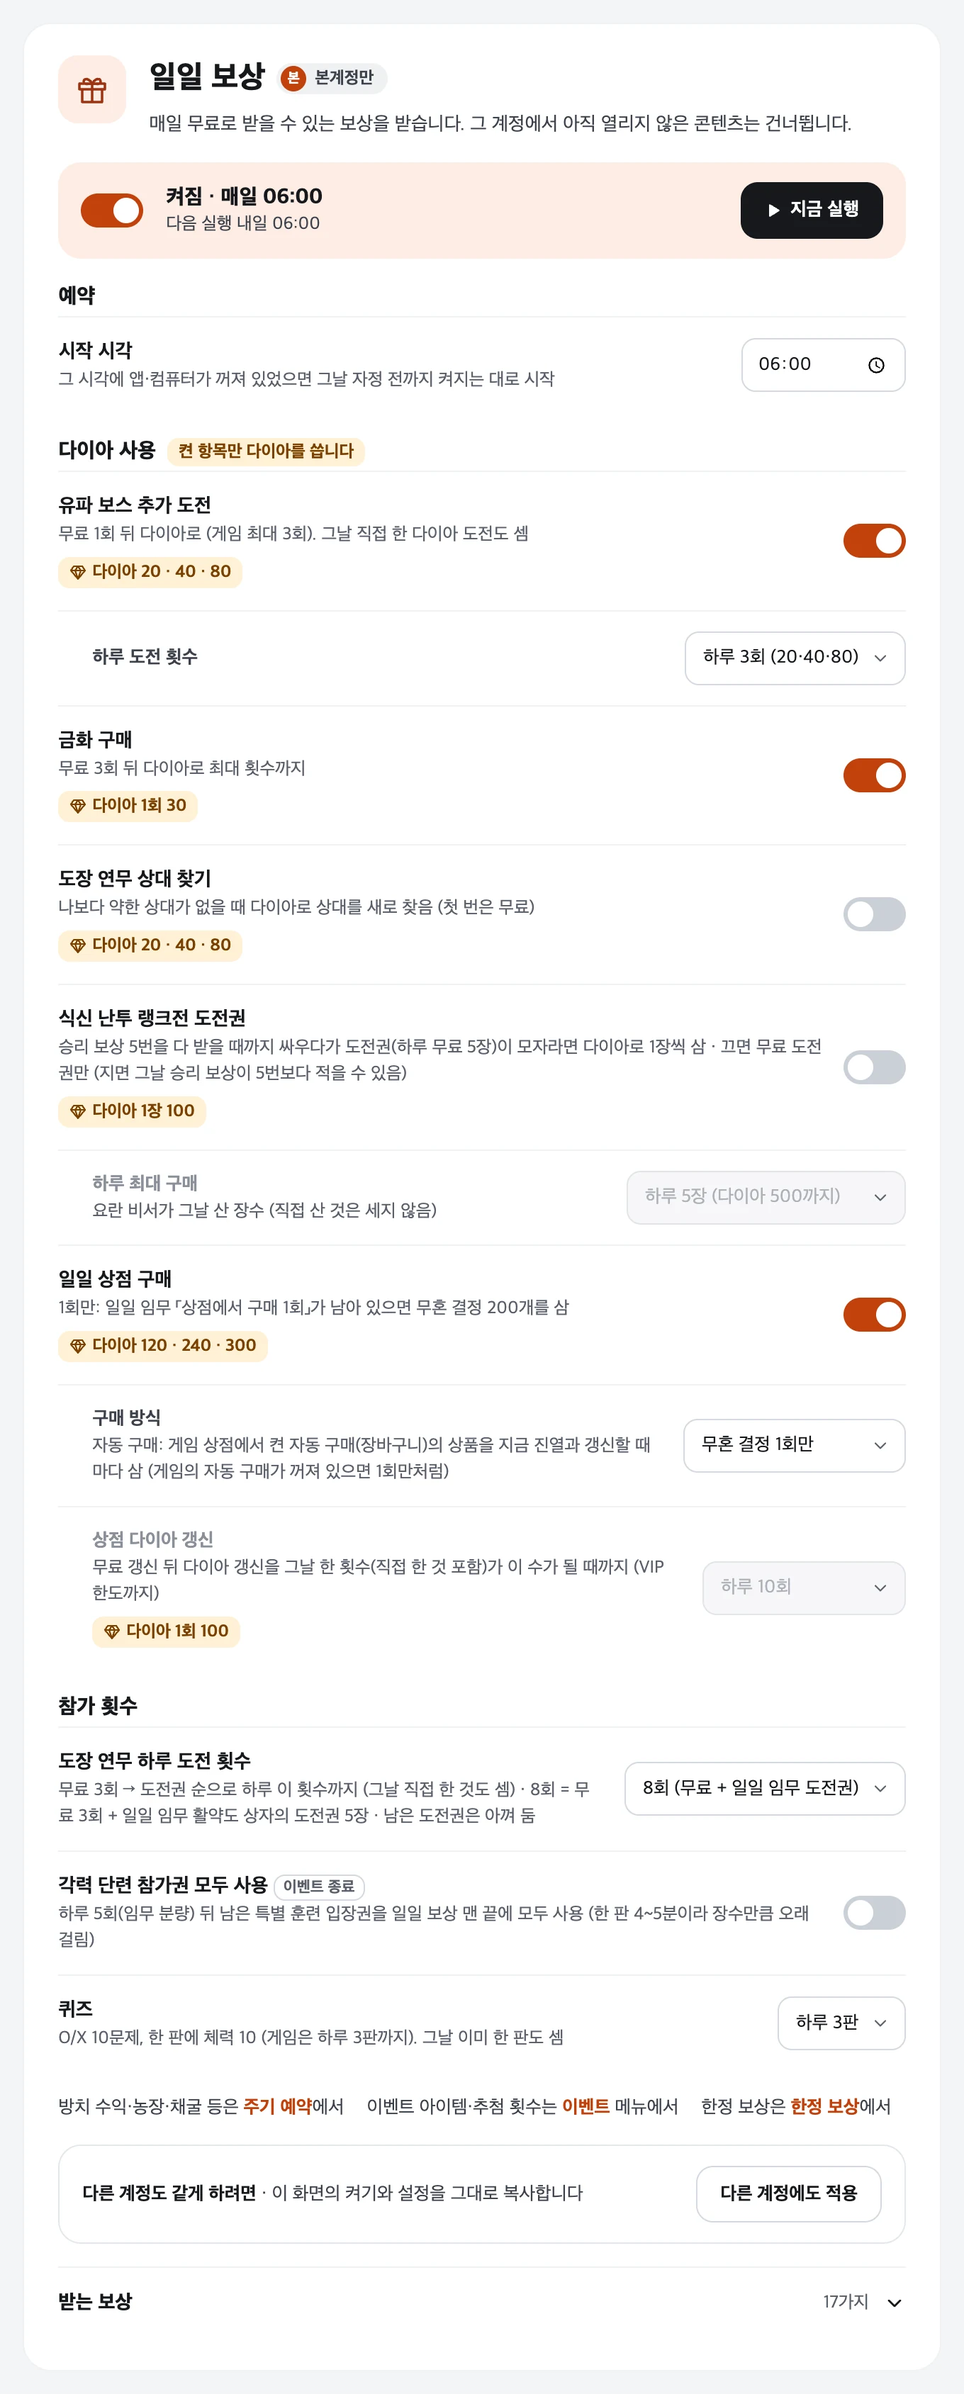
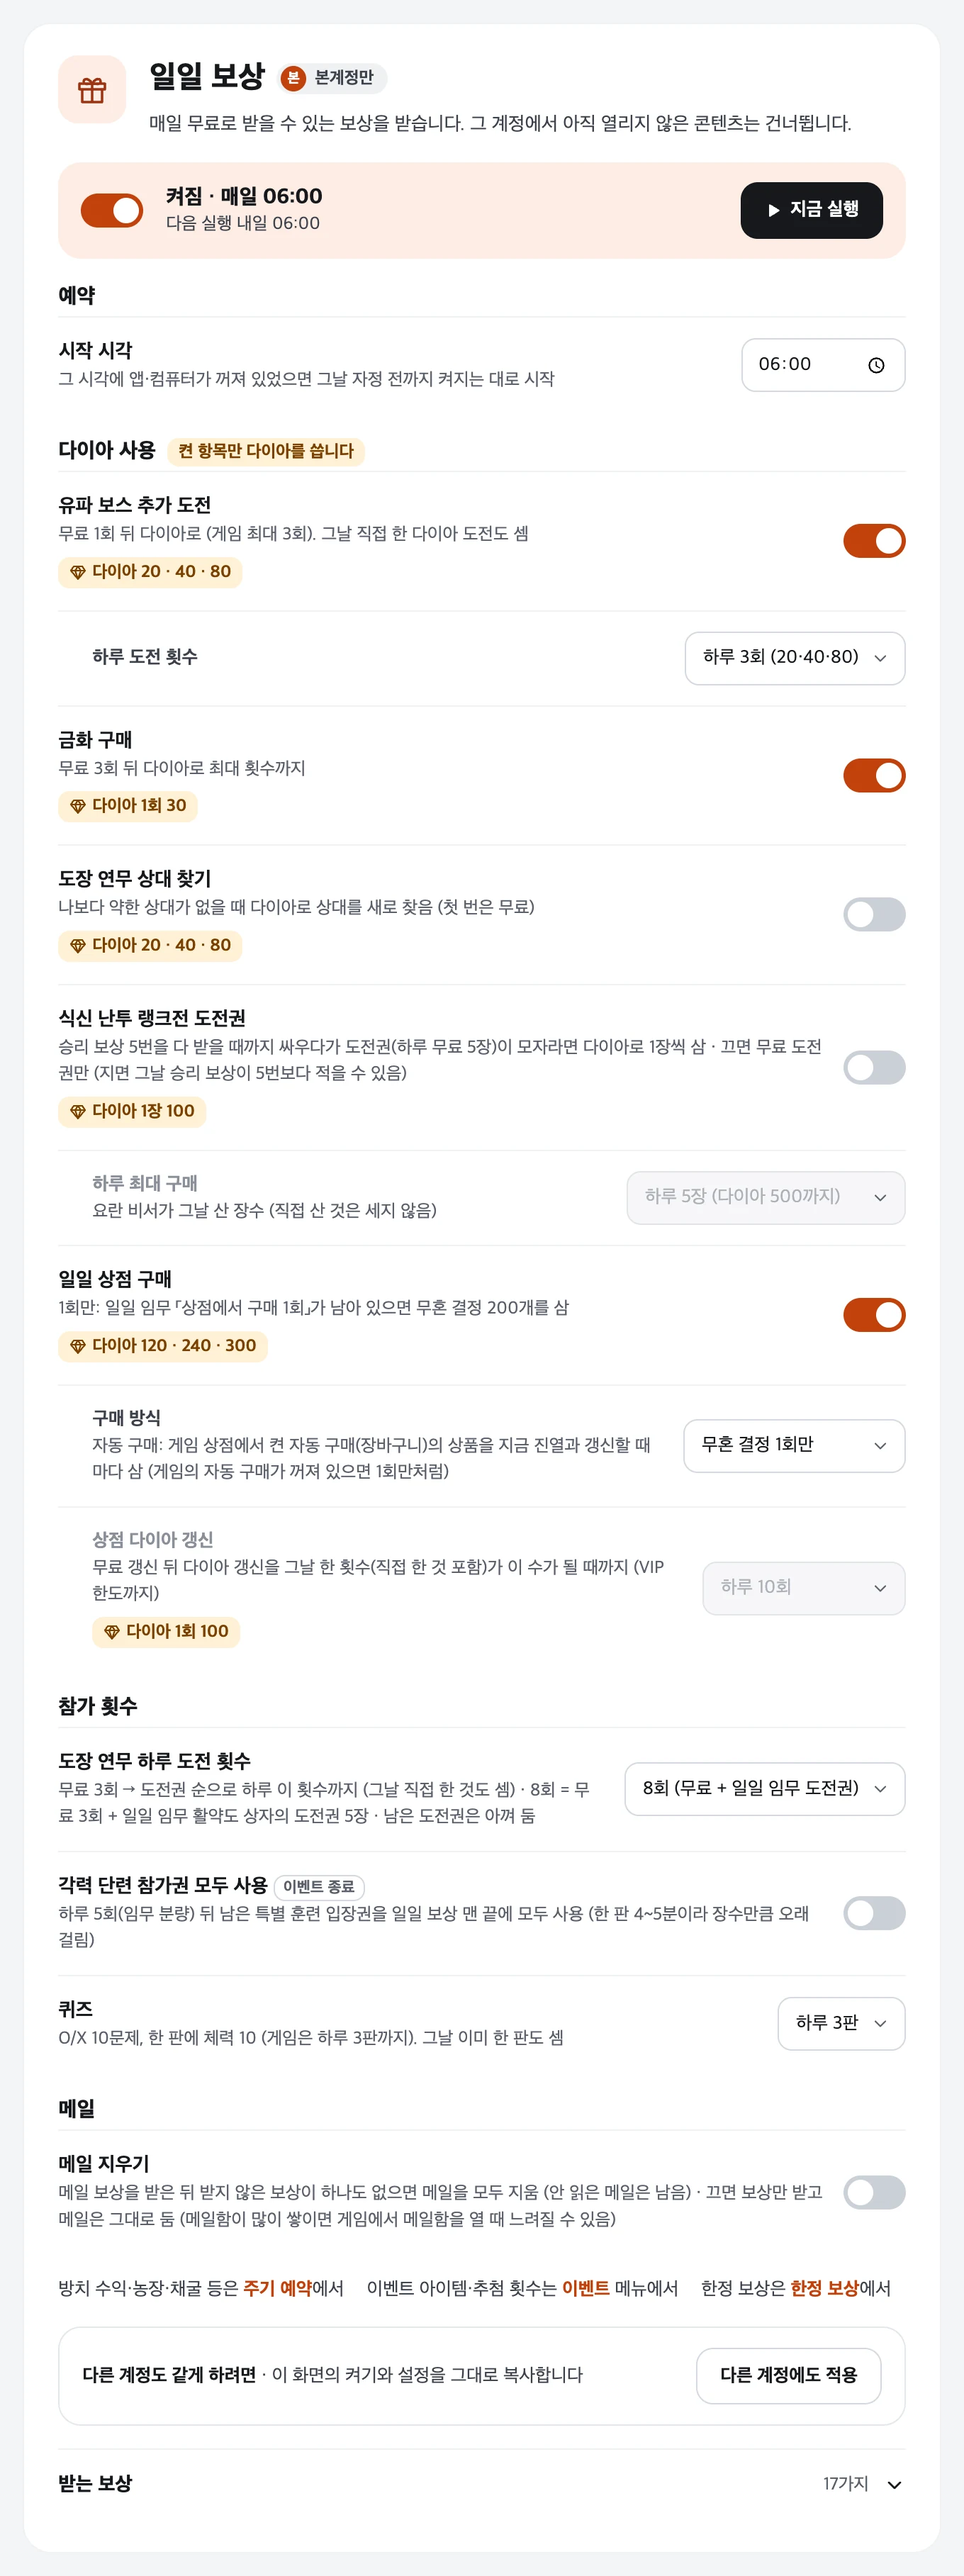
v1.5.128 홈페이지: 일일 보상 「메일 지우기」(기본 끔, 켜면 받지 않은 보상이 없을 때만 모두 삭제), 메일 보상은 [모두 받기]로 받고 지우지 않음, 주기 예약 메일은 빨간 점이 있을 때만, 일일 보상 설정 화면 이미지
Claude-Session: https://claude.ai/code/session_01KmZacAeoiGxHpjKwWGpkTY

diff --git a/docs/features.html b/docs/features.html
@@ -61,11 +61,12 @@
           <div class="tags"><span class="chip ok">일반 등급부터</span><span class="chip dia">다이아는 켠 항목만</span></div>
           <p>매일 무료로 받을 수 있는 보상과 일일 콘텐츠를 한 번에 처리합니다. 그 계정에서 아직 열리지 않은 콘텐츠는 건너뜁니다.</p>
           <ul>
-            <li><b>매일 보상</b>: 출석, 친구 금화, VIP·일일 특전 무료 패키지, 패스 일일 보상, 유파 출석·보스, 무료 소환, 무료 패키지, 임무 보상·활약도 상자, 메일(보상을 받은 뒤 받지 않은 보상이 하나도 없으면 메일을 모두 지움). 서포트(St.8001)가 열린 계정은 게임 서포트의 [일괄 실행]으로 합니다. 단 농장의 「가장 높은 품질의 검희를 파견해 육성」은 별을 보지 않고 위탁 횟수를 쓰므로 하지 않습니다 (위탁은 보석채취가 별 기준으로).</li>
+            <li><b>매일 보상</b>: 출석, 친구 금화, VIP·일일 특전 무료 패키지, 패스 일일 보상, 유파 출석·보스, 무료 소환, 무료 패키지, 임무 보상·활약도 상자, 메일 보상(게임의 [모두 받기]로 받고 메일은 지우지 않음, v1.5.128부터). 서포트(St.8001)가 열린 계정은 게임 서포트의 [일괄 실행]으로 합니다. 단 농장의 「가장 높은 품질의 검희를 파견해 육성」은 별을 보지 않고 위탁 횟수를 쓰므로 하지 않습니다 (위탁은 보석채취가 별 기준으로).</li>
             <li><b>일일 콘텐츠</b>: 강적 시련(하루 5회), 식신 난투 랭크전(승리 보상 5번을 다 받을 때까지, 도전권이 모자라면 켠 경우에만 다이아로 사서 이어 감), 도장 연무(하루 도전 횟수 설정, 기본 8회 = 무료 3 + 일일 임무 도전권 5), 퀴즈(1~3판), 오중탑, 속성 시련·검희 특훈 소탕, 환상 경계 구조, 흑암 강림 정예·전설 혼자 도전, 각력 단련, 도감, 유파 기술, 일일 임무 채우기(깃털·초대장).</li>
             <li><b>이벤트</b>: 열린 이벤트의 무료 보상과 이벤트 아이템 사용(추첨·모집 횟수 제한은 이벤트 메뉴에서). 맨 끝에 한 번 더 — 그 뒤 퀴즈·도장 연무 등으로 끝난 이벤트 일일 임무 보상도 받습니다.</li>
           </ul>
           <div class="set"><b>다이아를 쓰는 항목 (켤 때만)</b>유파 보스 추가 도전(하루 1~3회) · 금화 구매 · 도장 연무 상대 찾기 · 식신 난투 랭크전 도전권(1장 100, 하루 최대 1~10장, 기본 5장 · v1.5.121부터) · 일일 상점(무혼 결정 1회, 또는 게임 자동 구매 + 상점 갱신 횟수)</div>
+          <div class="set"><b>메일 지우기 (기본 끔)</b>켜면 메일 보상을 받은 뒤 받지 않은 보상이 하나도 없을 때만 게임의 [모두 삭제]로 메일을 지웁니다(읽지 않은 공지처럼 보상이 없는 새 메일은 남음). v1.5.128부터 기본이 끔이라 써 오던 계정도 이제 메일을 지우지 않습니다. 예전처럼 지우려면 기능 설정 → 일일 보상 → 메일 → 「메일 지우기」를 켜세요. 메일함이 많이 쌓이면 게임에서 메일함을 열 때 느려질 수 있습니다.</div>
         </div>
         <figure class="shot panel"><img loading="lazy" src="img/panel-daily.webp" alt="일일 보상 설정 화면"></figure>
       </article>
@@ -138,7 +139,7 @@
     <section class="chap" id="periodic">
       <p class="kicker">주기 예약</p>
       <h2>쌓이는 보상은 고른 간격마다</h2>
-      <p>시간이 지나면 쌓이다가 상한에서 멈추는 것을 고른 간격마다 따로 합니다. <b>켠 항목은 06:00 일일 보상에서 빠지고, 끄면 일일 보상 때 하루 1번</b> 합니다. 처음 켜면 바로 한 번 하고, 그 뒤로는 마지막으로 한 시각부터 셉니다. 끝날 때마다 임무 보상·활약도 상자·이벤트 임무 보상·친구 금화·메일 보상도 받아 둡니다 (이벤트 아이템은 이벤트 설정대로). 「오늘」 화면에서도 바로 켜고 간격을 바꿀 수 있습니다.</p>
+      <p>시간이 지나면 쌓이다가 상한에서 멈추는 것을 고른 간격마다 따로 합니다. <b>켠 항목은 06:00 일일 보상에서 빠지고, 끄면 일일 보상 때 하루 1번</b> 합니다. 처음 켜면 바로 한 번 하고, 그 뒤로는 마지막으로 한 시각부터 셉니다. 끝날 때마다 임무 보상·활약도 상자·이벤트 임무 보상·친구 금화·메일 보상도 받아 둡니다 (이벤트 아이템은 이벤트 설정대로). 메일은 게임 메일 아이콘에 빨간 점이 있을 때만 받으러 갑니다(06:00 일일 보상은 늘 받음). 「오늘」 화면에서도 바로 켜고 간격을 바꿀 수 있습니다.</p>
       <div class="mini-grid">
         <div class="mini" id="guaji"><div class="feat-h"><i data-i="clock"></i><div><h3>방치 수익</h3><div class="when">1~8시간마다 (기본 4시간)</div></div></div><p>방치 수익을 받습니다. 레벨업할 수 있으면 먼저 레벨업합니다. 수익은 최대 4시간(특권이 있으면 8시간)까지 쌓입니다.</p><button class="see" type="button" data-zoom="img/panel-guaji.webp" data-alt="방치 수익 설정">설정 화면 보기 →</button></div>
         <div class="mini" id="pata"><div class="feat-h"><i data-i="tower"></i><div><h3>오중탑</h3><div class="when">5시간마다</div></div></div><p>도전권을 모두 써서 도전하고 10층마다 도달 보상을 받습니다. 도전권은 30분에 1개, 최대 10개.</p><button class="see" type="button" data-zoom="img/panel-pata.webp" data-alt="오중탑 설정">설정 화면 보기 →</button></div>
